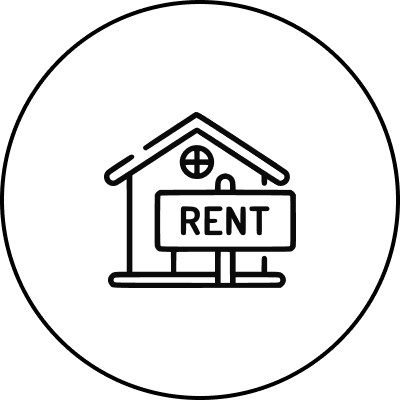
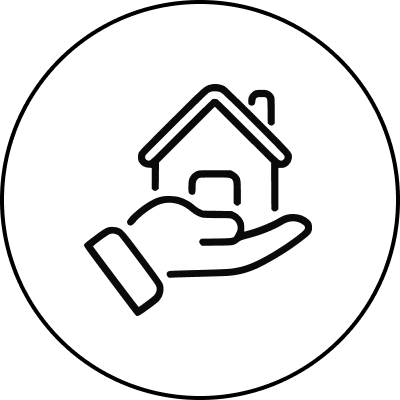
a lot of changes with adding parternser

Changed region(s): [[0.21, 0.21, 0.78, 0.81]]

diff --git a/src/components/OurProjects.jsx b/src/components/OurProjects.jsx
@@ -15,7 +15,19 @@ const OurProjects = () => {
                 <div className="project-card" onClick={()=>navigate(`/singleproject/${project.project_id}`)} key = {index}>
                     <img src={project.images[0]} />
                     <div className="details">
-                        <h4>{project.project_name}</h4>
+                        <h7>{project.project_name}</h7>
+                        <div className="icon-data">
+                        <svg width="15px" height="15px" viewBox="0 0 51 51" fill="none" xmlns="http://www.w3.org/2000/svg">
+                        <path fill-rule="evenodd" clip-rule="evenodd" d="M23.8209 0.0864245C20.1979 0.467994 16.7709 2.1116 14.1648 4.71759C11.061 7.82119 9.42207 11.7977 9.42207 16.2249C9.42207 20.1759 10.6683 24.1357 13.3117 28.5842C13.7019 29.2405 14.9846 31.1727 15.1751 31.3909C15.2507 31.4774 15.3126 31.5768 15.3126 31.6117C15.3126 31.6467 13.6096 31.688 11.528 31.7036C8.23133 31.7282 7.72303 31.7522 7.58547 31.8899C7.34522 32.1303 2.35347 44.286 2.35347 44.6307C2.35347 45.1975 3.03193 45.5352 3.48351 45.193C3.58409 45.1168 3.83909 44.636 4.05002 44.1247L4.43351 43.195L6.98416 43.1683L9.53492 43.1417L9.37751 43.5172C9.29098 43.7237 8.69766 45.1599 8.05907 46.7086L6.89793 49.5246H4.36582C2.38029 49.5246 1.84438 49.4976 1.88306 49.4C1.91017 49.3315 2.10117 48.8552 2.30752 48.3417C2.60608 47.599 2.66409 47.3548 2.59162 47.1486C2.46143 46.7785 2.04315 46.5649 1.68737 46.687C1.36688 46.7969 1.16113 47.174 0.406116 49.0348C-0.124012 50.3412 -0.131189 50.642 0.361457 50.8918C0.558934 50.992 5.66652 51.0127 25.6139 50.9936L50.6189 50.9699L50.8094 50.7346C50.9143 50.6052 51 50.4129 51 50.3074C51 50.0348 43.5695 32.0841 43.3769 31.8913C43.2376 31.7518 42.7435 31.7283 39.433 31.7036C37.3515 31.688 35.6484 31.6467 35.6484 31.6117C35.6484 31.5768 35.7103 31.4774 35.7859 31.3909C35.9764 31.1727 37.2591 29.2405 37.6493 28.5842C40.2927 24.1357 41.5389 20.1759 41.5389 16.2249C41.5389 11.7977 39.9 7.82119 36.7962 4.71759C33.3682 1.28984 28.5893 -0.415856 23.8209 0.0864245ZM26.8905 1.5837C31.6353 2.06305 35.7379 4.73514 38.1276 8.9025C40.0168 12.1971 40.53 16.018 39.6207 20.0197C38.5616 24.6807 35.7222 29.6246 31.1972 34.6866C29.572 36.5044 25.7559 40.1548 25.4805 40.1548C25.1336 40.1548 20.3598 35.4537 18.7491 33.5261C14.2174 28.1024 11.7132 23.1761 11.0304 18.3419C10.8671 17.1855 10.8841 15.0662 11.0657 13.9378C12.2089 6.83347 18.1224 1.66175 25.2955 1.49269C25.6049 1.48541 26.3227 1.52638 26.8905 1.5837ZM24.644 9.35624C23.4997 9.49579 22.1545 10.0256 21.5785 10.5634C21.2218 10.8967 21.2001 11.3246 21.5244 11.6293C21.8461 11.9314 22.0714 11.9036 22.9603 11.4516C23.9225 10.9624 24.4962 10.8267 25.5802 10.832C26.6372 10.8371 27.531 11.1013 28.3568 11.6527C31.2931 13.6134 31.6952 17.5674 29.211 20.0514C27.1291 22.1332 23.8319 22.1332 21.75 20.0514C20.1562 18.4577 19.7241 16.4146 20.5086 14.1827L20.8378 13.2463L20.6322 12.9698C20.3777 12.6274 19.8705 12.5474 19.5861 12.8046C19.3479 13.0203 19.0527 13.6739 18.8305 14.4782C18.7148 14.8973 18.6639 15.4565 18.6667 16.2817C18.6702 17.2978 18.7103 17.5979 18.933 18.2753C19.302 19.3974 19.8281 20.2461 20.6999 21.1258C21.9515 22.3885 23.6839 23.1062 25.4805 23.1062C28.4463 23.1062 31.1092 21.1429 32.0143 18.2891C32.5585 16.5737 32.4226 14.8378 31.6155 13.1917C30.8796 11.6911 29.9065 10.7195 28.4212 10.0021C27.1749 9.4 25.9716 9.19426 24.644 9.35624ZM13.5724 33.3517C13.5356 33.4476 13.1211 34.4568 12.6512 35.5945L11.7968 37.6628H9.25988C7.80687 37.6628 6.73724 37.6246 6.75628 37.5735C6.77452 37.5243 7.19051 36.5151 7.68057 35.3307L8.57165 33.1772H11.1055C13.4776 33.1772 13.635 33.1884 13.5724 33.3517ZM17.5695 34.4482C19.6411 36.895 24.2836 41.4005 25.1884 41.8424C25.609 42.0479 25.8233 41.9175 27.512 40.4289L28.9537 39.158H33.2979C37.5093 39.158 37.6482 39.1519 37.8415 38.9586C38.1102 38.69 38.1049 38.1503 37.8311 37.9025C37.6345 37.7244 37.3995 37.7108 34.0319 37.6841L30.4425 37.6555L31.3268 36.7372C31.8131 36.232 32.7199 35.2245 33.3418 34.498L34.4726 33.1772H38.431H42.3894L43.2805 35.3307C43.7705 36.5151 44.1856 37.5218 44.2028 37.5678C44.2201 37.6138 43.2904 37.6653 42.137 37.682C40.1352 37.7112 40.0298 37.7225 39.8224 37.9301C39.683 38.0697 39.6084 38.2627 39.6142 38.4686C39.632 39.09 39.684 39.1029 42.4018 39.158L44.862 39.2078L45.381 40.4289L45.9 41.6499H38.1049C29.6162 41.6499 29.9692 41.6263 29.8242 42.2043C29.7883 42.3473 29.7853 42.5475 29.8176 42.6493C29.8499 42.7511 31.5885 44.3284 33.6811 46.1545L37.4859 49.4747L35.3229 49.5015L33.1599 49.5284L25.4677 42.9833C21.2369 39.3835 17.6505 36.3911 17.498 36.3336C17.1213 36.1913 16.7825 36.3572 16.5832 36.7812C16.4672 37.0278 11.6643 48.6165 11.3533 49.4C11.3171 49.4913 10.934 49.5246 9.9189 49.5246C9.15721 49.5246 8.53397 49.5107 8.53397 49.4938C8.53397 49.4768 9.15442 47.9629 9.91272 46.1296C10.6709 44.2962 11.3228 42.6708 11.3612 42.5175C11.4182 42.2899 11.377 42.1848 11.1366 41.9444L10.8421 41.6499H7.95161H5.06103L5.58009 40.4289L6.09925 39.2078L9.34402 39.1816C12.5613 39.1555 12.5906 39.1534 12.789 38.9324C12.8989 38.8097 13.4752 37.5207 14.0694 36.0679C14.6636 34.6151 15.1919 33.3704 15.2434 33.3018C15.2994 33.2273 15.569 33.1772 15.9152 33.1772H16.4934L17.5695 34.4482ZM24.2308 43.8927L30.7893 49.4747L26.2832 49.5006C23.8048 49.5149 19.7885 49.5149 17.3579 49.5006L12.9388 49.4747L15.2472 43.8701C16.5168 40.7875 17.5818 38.2756 17.6139 38.2881C17.646 38.3005 20.6236 40.8226 24.2308 43.8927ZM47.8167 46.3205C48.5258 48.0394 49.106 49.4636 49.106 49.4853C49.106 49.5068 47.0088 49.523 44.4457 49.5211L39.7854 49.5177L36.1967 46.3725C34.2229 44.6427 32.589 43.2085 32.5659 43.1856C32.5426 43.1626 35.6745 43.1553 39.5256 43.1693L46.5276 43.195L47.8167 46.3205Z" fill="#0061E0"/>
+                        </svg>
+                        <h8>{project.location}</h8>
+                        </div>
+                        <div className="icon-data">
+                        <svg width="15px" height="15px" viewBox="0 0 35 35" fill="none" xmlns="http://www.w3.org/2000/svg">
+                        <path d="M1.45845 14.5816C1.07165 14.5816 0.700685 14.428 0.427172 14.1545C0.153658 13.8809 0 13.51 0 13.1232V1.45845C0 1.07165 0.153658 0.700685 0.427172 0.427172C0.700685 0.153658 1.07165 0 1.45845 0H13.1261C13.5129 0 13.8839 0.153658 14.1574 0.427172C14.4309 0.700685 14.5845 1.07165 14.5845 1.45845V13.1232C14.5845 13.51 14.4309 13.8809 14.1574 14.1545C13.8839 14.428 13.5129 14.5816 13.1261 14.5816H1.45845ZM21.8768 14.5816C21.49 14.5816 21.1191 14.428 20.8455 14.1545C20.572 13.8809 20.4184 13.51 20.4184 13.1232V1.45845C20.4184 1.07165 20.572 0.700685 20.8455 0.427172C21.1191 0.153658 21.49 0 21.8768 0H33.5415C33.9283 0 34.2993 0.153658 34.5728 0.427172C34.8463 0.700685 35 1.07165 35 1.45845V13.1232C35 13.51 34.8463 13.8809 34.5728 14.1545C34.2993 14.428 33.9283 14.5816 33.5415 14.5816H21.8768ZM1.45845 35C1.07165 35 0.700685 34.8463 0.427172 34.5728C0.153658 34.2993 0 33.9284 0 33.5415V21.8739C0 21.4871 0.153658 21.1161 0.427172 20.8426C0.700685 20.5691 1.07165 20.4155 1.45845 20.4155H13.1261C13.5129 20.4155 13.8839 20.5691 14.1574 20.8426C14.4309 21.1161 14.5845 21.4871 14.5845 21.8739V33.5415C14.5845 33.9284 14.4309 34.2993 14.1574 34.5728C13.8839 34.8463 13.5129 35 13.1261 35H1.45845ZM21.8768 35C21.49 35 21.1191 34.8463 20.8455 34.5728C20.572 34.2993 20.4184 33.9284 20.4184 33.5415V21.8739C20.4184 21.4871 20.572 21.1161 20.8455 20.8426C21.1191 20.5691 21.49 20.4155 21.8768 20.4155H33.5415C33.9283 20.4155 34.2993 20.5691 34.5728 20.8426C34.8463 21.1161 35 21.4871 35 21.8739V33.5415C35 33.9284 34.8463 34.2993 34.5728 34.5728C34.2993 34.8463 33.9283 35 33.5415 35H21.8768Z" fill="#0061E0"/>
+                        </svg>
+                        <h8>{project.sqft}</h8>
+                        </div>
                     </div>
                 </div>
             ))

diff --git a/src/data/data.js b/src/data/data.js
@@ -27,17 +27,12 @@ export const services = [
     belowtext: "Our expertise lies in construction services, delivering exceptional quality and craftsmanship.",
   },
   {
-    icon: "/image/bs2.png",
+    icon: "/image/bs3.png",
     heading: "Buy",
     belowtext: "Our property buying services offer expert guidance and support throughout the entire process. ",
   },
-  // {
-  //   icon: "./image/s3.png",
-  //   heading: "Rent",
-  //   belowtext: "300 Property",
-  // },
   {
-    icon: "/image/bs3.png",
+    icon: "/image/bs2.png",
     heading: "Sell",
     belowtext: "We work closely with you to market and showcase your property effectively, attracting qualified buyers. ",
   },
@@ -49,31 +44,18 @@ export const projects = [
       project_name: "Seven Haven",
       images: ["/image/p1/p1-1.jpg","/image/p1/p1-2.jpg","/image/p1/p1-3.jpg","/image/p1/p1-4.jpg"],
       location: "Coimbatore",
-      sqft: "5000 sq.ft",
+      sqft: "2850 sq.ft",
       description: "Discover a haven of comfort, care, and companionship at our esteemed old-age homes. With a deep commitment to enriching the lives of seniors, we provide a nurturing environment where every individual is valued and cherished. Our dedicated team of compassionate professionals ensures personalized care, engaging activities, and a warm, welcoming atmosphere. Experience the joys of retirement surrounded by like-minded individuals, forging new friendships and creating lasting memories. Embrace this chapter of life with peace of mind, knowing that our old-age homes are designed to cater to your needs, enhance your well-being, and offer a fulfilling and vibrant lifestyle."
-    },
-    {
-      project_id : 2,
-      project_name: "KR Residency",
-      images: ["/image/p1/p1-1.jpg","/image/p1/p1-2.jpg","/image/p1/p1-3.jpg","/image/p1/p1-4.jpg"]
+    },  
+]
 
-    },
-    {
-      project_id : 3,
-      project_name: "PR Villa",
-      images: ["/image/p1/p1-1.jpg","/image/p1/p1-2.jpg","/image/p1/p1-3.jpg","/image/p1/p1-4.jpg"]
+export const partners = [
+  {
+    partner_type : "Architect & Consultant", 
+    name: "Dr.Sudhahar Adithan",
+    image: "/image/partners/sudhahar.png",
+    company : "Chief Consultant at DIMENSIONS",
+    link: "https://www.linkedin.com/in/sudhahar-adithan-817b5222/"
 
-    },
-    {
-      project_id : 4,
-      project_name: "PR Villa",
-      images: ["/image/p1/p1-1.jpg","/image/p1/p1-2.jpg","/image/p1/p1-3.jpg","/image/p1/p1-4.jpg"]
-
-    },
-    {
-      project_id : 5,
-      project_name: "PR Villa",
-      images: ["./image/p1/p1-1.jpg","./image/p1/p1-2.jpg","./image/p1/p1-3.jpg","./image/p1/p1-4.jpg"]
-
-    },
+  }
 ]

diff --git a/src/css/OurPartners.scss b/src/css/OurPartners.scss
@@ -1,0 +1,98 @@
+@import "./index.scss";
+
+
+.partners-container{
+    margin-top: 50px;
+
+    h5{
+        text-align: center;
+        margin-bottom: 20px;
+    }
+
+    .partners{
+        display: grid;
+        grid-template-columns: repeat(auto-fit, 400px); 
+        justify-content: center;
+        gap: 20px;
+    
+        @include tablet {
+            grid-template-columns: repeat(auto-fit, 340px); 
+            flex-direction: column;
+        }
+    
+        
+    
+        .partner-card{
+            width: 400px;
+            height: 160px;
+            display: flex;
+            justify-content: space-around;
+            align-items: center;
+            background-image: linear-gradient(120deg, #a1c4fd 0%, #c2e9fb 100%);
+            background-size: cover;
+            box-shadow: 8px 10px 20px 1px rgba(152, 152, 152, 0.16);
+            border-radius: 16px;
+            transition-duration: 0.3s;
+            cursor: pointer;
+
+            @include tablet{
+                width: 340px;
+            }
+    
+           
+            
+            img{
+                width: 80px;
+                height: 80px;
+                margin-left: 10px;
+                border-radius: 50%;
+                object-fit: cover;
+                border: 3px solid white;
+                box-shadow: 5px 7px 16px 1px rgba(101, 99, 99, 0.16);
+            }
+
+            .details{
+                width: 70%;
+                height: 80%;
+                border-radius: 16px;
+                background: white;
+                box-shadow: 8px 10px 20px 1px rgba(152, 152, 152, 0.16);
+
+                display: flex;
+                flex-direction: column;
+                align-items: center;
+                justify-content: space-evenly;
+
+                h5{
+                    color: black;
+                    margin: 0px;
+                }
+
+                h7{
+                    font-family: "Poppins";
+                    margin: 0px;
+                    text-align: center;
+                    font-size: 16px;
+                    @include tablet{
+                        font-size: 15px;
+                    }
+                }
+
+                h8{
+                    font-family: "Poppins";
+                    margin: 0px;
+                    text-align: center;
+                    font-size: 15px;
+                    @include tablet{
+                        font-size: 14px;
+                    }
+                }
+
+    
+            }
+        }
+        .partner-card:hover{
+            box-shadow: 12px 14px 24px 5px rgba(152, 152, 152, 0.295);
+        }
+    }
+}

diff --git a/src/css/OurProjects.scss b/src/css/OurProjects.scss
@@ -22,13 +22,12 @@
         
     
         .project-card{
-            width: 240px;
-            height: 286px;
+            width: 260px;
+            height: 300px;
             display: flex;
             flex-direction: column;
             align-items: flex-start;
             padding: 0px 0px 0px;
-            gap: 10px;
             background: #FFFFFF;
             box-shadow: 8px 10px 20px 1px rgba(152, 152, 152, 0.16);
             border-radius: 16px;
@@ -36,11 +35,8 @@
             cursor: pointer;
     
             img{
-                width: 240px;
-                height: 169px;
-                flex: none;
-                order: 0;
-                flex-grow: 0;
+                width: 260px;
+                height: 190px;
                 border-radius: 16px 16px 0px 0px;
                 object-fit: cover;
                 margin: 0px;
@@ -48,9 +44,40 @@
     
             .details{
                 width: 85%;
-                margin: auto;
+                margin-left: 20px;
+                margin-top: 10px;
                 display: flex;
                 flex-direction: column;
+                justify-content: flex-start;
+
+                h7{
+                    font-family: "Poppins";
+                    margin: 0px;
+                    font-size: 20px;
+                    margin-bottom: 5px;
+                }
+
+                h8{
+                    font-family: 'Inter';
+                    font-style: normal;
+                    font-weight: 400;
+                    font-size: 12px;
+                    line-height: 22px;
+                    color: #7C8893;
+                    @include tablet{
+                        font-size: 14px;
+                    }
+                }
+
+
+                .icon-data{
+                    height: fit-content;
+                    display: flex;
+                    align-items: center;
+                    gap: 20px;
+                    margin-bottom: 5px;
+                }
+
     
             }
         }

diff --git a/src/components/OurPartners.jsx b/src/components/OurPartners.jsx
@@ -1,0 +1,29 @@
+import React from 'react'
+import "../css/OurPartners.scss"
+import { partners } from '../data/data'
+
+const OurPartners = () => {
+  return (
+    <div className="container">
+        <div className="partners-container">
+            <h5>OUR PARTNERS</h5>
+            <div className="partners">
+                {partners.map((partner, index)=>(
+                    <a href={partner.link} target='block'>
+                    <div className="partner-card" key={index}>
+                    <img src={partner.image} alt="" />
+                    <div className="details">
+                        <h5>{partner.partner_type}</h5>
+                        <h7>{partner.name}</h7>
+                        <h8>{partner.company}</h8>
+                    </div>
+                </div></a>
+                    
+                ))}
+            </div>
+        </div>
+    </div>
+  )
+}
+
+export default OurPartners

diff --git a/src/pages/Home.jsx b/src/pages/Home.jsx
@@ -4,6 +4,7 @@ import Hero from '../components/Hero'
 import About from '../components/About'
 import Services from '../components/Services'
 import OurProjects from '../components/OurProjects'
+import OurPartners from '../components/OurPartners'
 
 const Home = () => {
   return (
@@ -12,6 +13,7 @@ const Home = () => {
       <section id = "about"><About/></section>
       <section id = "services"><Services/></section>
       <section id = "projects"><OurProjects/></section>
+      <section id = "partners"><OurPartners/></section>
     </div>
   )
 }

diff --git a/src/css/App.scss b/src/css/App.scss
@@ -21,6 +21,12 @@ body{
     padding: 0px;
 }
 
+a{
+    text-decoration: none;
+    color: black;
+
+}
+
 .app{
     margin: 0px;
     padding: 0px;
@@ -79,6 +85,7 @@ h1{
     font-weight: 700;
     font-size: 60px;
     color: #FFFFFF;
+    text-shadow: 0px 0.5px 0.5px rgba(0, 0, 0, 0.25);
     @include tablet{
         font-size: 60px;
     }

diff --git a/src/components/Footer.jsx b/src/components/Footer.jsx
@@ -31,7 +31,7 @@ const Footer = () => {
         <div className="list-of-data">
             <h4>Contact Us</h4>
             <h5>+91 9894209390</h5>
-            <h5>+91 8838567738</h5>
+            <h5>+91 9677984243</h5>
         </div>
       </div>
 

diff --git a/src/css/hero.scss b/src/css/hero.scss
@@ -2,7 +2,7 @@
 .hero{
     height: calc(100vh - 70px);
     background: url("../assets/bg-4.png");
-    background: url("../assets/bg-8.jpg");
+    background: url("../assets/bg-9.jpg");
     background-size: cover;
     overflow: hidden;
 
